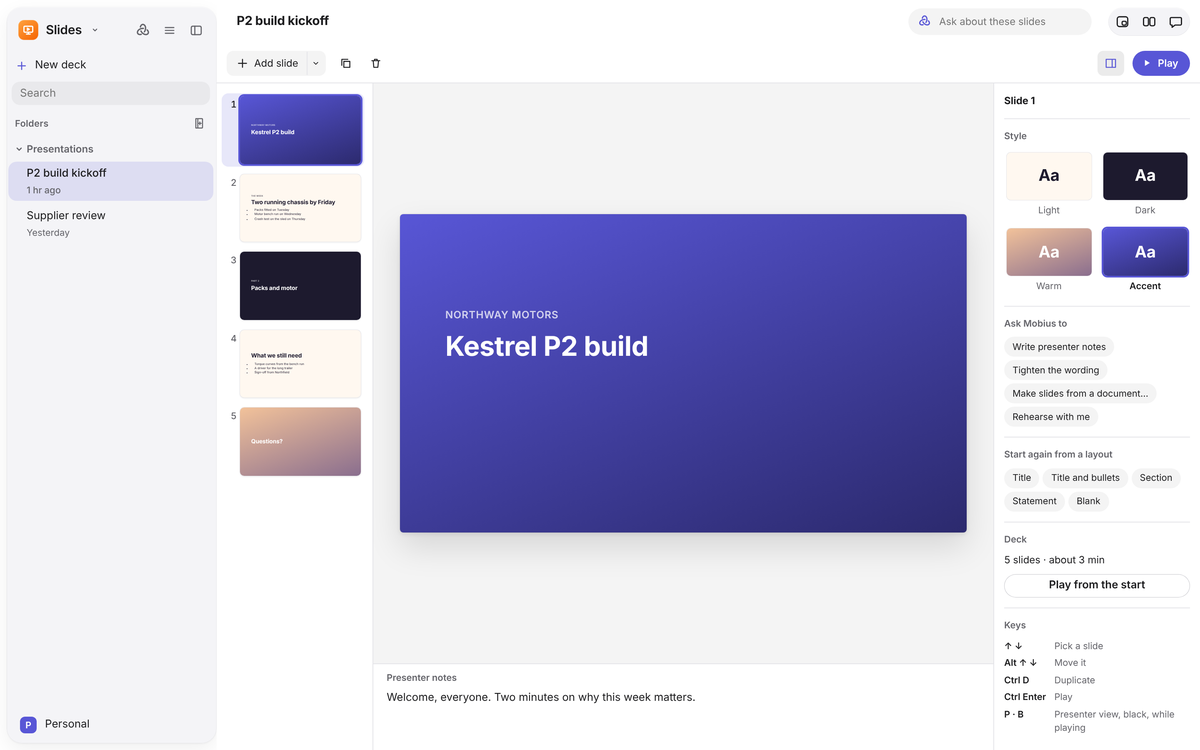
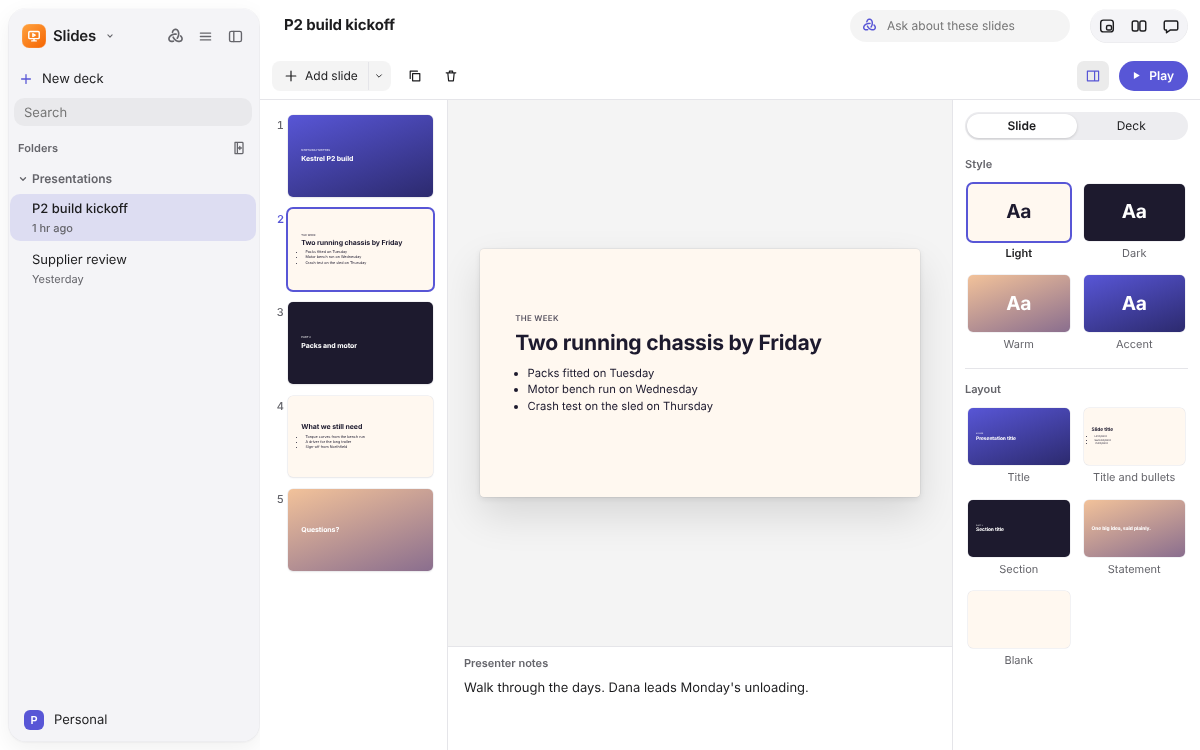
Slides: fix the layout menu, split the inspector into Slide and Deck, keep bullet dots while editing
- The layout menu (the arrow beside Add slide) sits on the shared glass menu surface, so the navigator no longer shows through it.
- The Format inspector has a Slide | Deck segmented control: Slide holds style and layout (drawn as faces), Deck holds length, Play from the start and Ask Mobius. The keys cheat sheet moves into tooltips and the right-click menu.
- Bullets keep their dots while typed: the field sits over a list of the same lines, so wrapped lines stay lined up.
- The picked thumbnail has one accent ring and an accent number instead of a ring on a tinted row.
- Ctrl+Enter plays from the picked slide wherever focus is, unless typing in another field.
- e2e covers the Deck pane; README screenshot and docs updated.

Claude-Session: https://claude.ai/code/session_01VRGwo96C7qXdBUcFe2N5X1

diff --git a/apps/desktop/src/Slides.tsx b/apps/desktop/src/Slides.tsx
@@ -28,6 +28,9 @@ const TOOLS: { id: SlidesTool; label: string }[] = [
 ];
 const STYLE_NAMES: Record<SlideStyle, string> = { light: 'Light', dark: 'Dark', warm: 'Warm', accent: 'Accent' };
 const FORMAT_KEY = 'mobius.slides.format';
+const PANE_KEY = 'mobius.slides.pane';
+type Pane = 'slide' | 'deck';
+const PANES: { id: Pane; name: string }[] = [{ id: 'slide', name: 'Slide' }, { id: 'deck', name: 'Deck' }];
 
 const Icon = ({ d }: { d: string }) => <svg viewBox="0 0 20 20" aria-hidden="true"><path d={d} /></svg>;
 const ICON = {
@@ -135,7 +138,7 @@ function LayoutMenu({ anchor, onPick, onClose }: { anchor: DOMRect; onPick: (l: 
   return createPortal(
     <>
       <div className="slides-scrim" onMouseDown={onClose} />
-      <div className="slides-menu slides-layouts" role="menu" aria-label="Slide layouts" style={{ top: anchor.bottom + 6, left: anchor.left }}
+      <div className="slides-menu slides-layouts glass" role="menu" aria-label="Slide layouts" style={{ top: anchor.bottom + 6, left: anchor.left }}
         onKeyDown={(e) => {
           if (e.key === 'Escape') { onClose(); return; }
           if (e.key !== 'ArrowDown' && e.key !== 'ArrowUp') return;
@@ -171,6 +174,8 @@ export function SlidesEditor({ slides: deck, review, onTool, busy = false }: { s
   const [dragFrom, setDragFrom] = useState<number | null>(null);
   const [dropAt, setDropAt] = useState<number | null>(null);
   const [formatOpen, setFormatOpen] = useState(() => { try { return localStorage.getItem(FORMAT_KEY) !== '0'; } catch { return true; } });
+  const [pane, setPane] = useState<Pane>(() => { try { return localStorage.getItem(PANE_KEY) === 'deck' ? 'deck' : 'slide'; } catch { return 'slide'; } });
+  useEffect(() => { try { localStorage.setItem(PANE_KEY, pane); } catch { /* the choice is only for this session */ } }, [pane]);
   const saved = slides[Math.min(at, slides.length - 1)]!;
   // The slide being typed in, as typed: an empty new bullet line stays until the person leaves the slide.
   // It belongs to one slide of one deck: once another slide is shown, it no longer stands in for that one.
@@ -283,9 +288,23 @@ export function SlidesEditor({ slides: deck, review, onTool, busy = false }: { s
     else if (mod && k.toLowerCase() === 'd') { e.preventDefault(); duplicate(); focusThumb(at + 1); }
     else if (k === 'Enter' && !mod) { e.preventDefault(); titleRef.current?.focus(); }
   };
+  // Ctrl+Enter plays from the picked slide wherever focus is, unless it is typing somewhere else (the composer sends with it).
+  const atRef = useRef(at); atRef.current = at;
+  const pageRef = useRef<HTMLElement>(null);
+  const playingRef = useRef(false); playingRef.current = playing !== null;
+  useEffect(() => {
+    const key = (e: KeyboardEvent) => {
+      if (!(e.ctrlKey || e.metaKey) || e.key !== 'Enter' || e.defaultPrevented || playingRef.current) return;
+      const inPage = e.target instanceof Node && !!pageRef.current?.contains(e.target);
+      if (!inPage && (typing(e.target) || document.querySelector('[role="dialog"][aria-modal="true"]'))) return;
+      e.preventDefault();
+      setPlaying(atRef.current);
+    };
+    window.addEventListener('keydown', key);
+    return () => window.removeEventListener('keydown', key);
+  }, []);
   const onPageKey = (e: ReactKeyboardEvent) => {
     const mod = e.ctrlKey || e.metaKey;
-    if (mod && e.key === 'Enter') { e.preventDefault(); setPlaying(at); return; }
     if (typing(e.target)) return;
     if (mod && e.key.toLowerCase() === 'z') { e.preventDefault(); if (e.shiftKey) redo(); else undo(); }
     else if (mod && e.key.toLowerCase() === 'y') { e.preventDefault(); redo(); }
@@ -313,11 +332,11 @@ export function SlidesEditor({ slides: deck, review, onTool, busy = false }: { s
     { action: 'duplicate', keys: 'Ctrl+D', run: () => duplicate(i) },
     { label: 'Move up', keys: 'Alt+↑', disabled: i === 0, run: () => moveTo(i, i - 1), separated: true },
     { label: 'Move down', keys: 'Alt+↓', disabled: i === slides.length - 1, run: () => moveTo(i, i + 2) },
-    { label: 'Play from here', run: () => setPlaying(i) },
+    { label: 'Play from here', keys: 'Ctrl+Enter', run: () => setPlaying(i) },
     { action: 'delete', label: 'Delete slide', keys: 'Delete', danger: true, disabled: slides.length <= 1, run: () => remove(i), separated: true },
   ];
   return (
-    <section className="slides-page" aria-label={`Deck: ${deck.page.title}`} onKeyDown={onPageKey}>
+    <section ref={pageRef} className="slides-page" aria-label={`Deck: ${deck.page.title}`} onKeyDown={onPageKey}>
       {deck.status === 'conflict' && (
         <div className="note-conflict" role="alert">
           <span>This deck was changed somewhere else while you were editing it.</span>
@@ -327,7 +346,7 @@ export function SlidesEditor({ slides: deck, review, onTool, busy = false }: { s
       )}
       <div className="slides-bar" role="toolbar" aria-label="Slides">
         <div className="slides-add">
-          <button type="button" className="slides-tool" aria-label="Add slide" title="Add a slide like this one's layout" onClick={() => insert({ ...blankSlide(), style: current.style })}>
+          <button type="button" className="slides-tool" aria-label="Add slide" title="Add a slide in this style" onClick={() => insert({ ...blankSlide(), style: current.style })}>
             <Icon d={ICON.add} /><span>Add slide</span>
           </button>
           <button type="button" className="slides-tool slides-add-more" aria-label="Choose a layout" aria-haspopup="menu" aria-expanded={layoutsAt !== null} onClick={(e) => setLayoutsAt(e.currentTarget.parentElement!.getBoundingClientRect())}>
@@ -335,10 +354,10 @@ export function SlidesEditor({ slides: deck, review, onTool, busy = false }: { s
           </button>
         </div>
         <button type="button" className="slides-tool icon" aria-label="Duplicate slide" title="Duplicate (Ctrl+D)" onClick={() => duplicate()}><Icon d={ICON.duplicate} /></button>
-        <button type="button" className="slides-tool icon" aria-label="Delete slide" title="Delete slide" disabled={slides.length <= 1} onClick={() => remove()}><Icon d={ICON.trash} /></button>
+        <button type="button" className="slides-tool icon" aria-label="Delete slide" title="Delete slide (Delete)" disabled={slides.length <= 1} onClick={() => remove()}><Icon d={ICON.trash} /></button>
         <span className="spacer" />
         <button type="button" className="slides-tool icon" aria-label="Format" title="Format" aria-pressed={formatOpen} onClick={() => setFormatOpen((o) => !o)}><Icon d={ICON.format} /></button>
-        <button type="button" className="slides-play-btn" title="Play from this slide (Ctrl+Enter)" onClick={() => setPlaying(at)}><Icon d={ICON.play} /><span>Play</span></button>
+        <button type="button" className="slides-play-btn" title="Play from this slide (Ctrl+Enter). While playing: P presenter view, B black, Esc stop" onClick={() => setPlaying(at)}><Icon d={ICON.play} /><span>Play</span></button>
       </div>
       {proposing && (
         <div className="note-review sheet-review" role="status">
@@ -375,7 +394,11 @@ export function SlidesEditor({ slides: deck, review, onTool, busy = false }: { s
               <SlideFace slide={current}>
                 <input className="slide-kicker" aria-label="Kicker" placeholder="Kicker" value={current.kicker} onChange={(e) => change({ kicker: e.target.value }, 'kicker')} />
                 <textarea ref={titleRef} className="slide-title" aria-label="Title" placeholder="Title" rows={1} value={current.title} onChange={(e) => change({ title: e.target.value.replace(/\n/g, ' ') }, 'title')} />
-                <textarea className="slide-bullets-edit" aria-label="Bullets, one a line" placeholder="Bullets, one a line" rows={Math.max(2, current.bullets.length + 1)} value={current.bullets.join('\n')} onChange={(e) => change({ bullets: e.target.value.split('\n') }, 'bullets')} />
+                {/* The field sits over a list of the same lines, so each bullet keeps its dot as it is typed, as on the slide. */}
+                <div className="slide-bullets-field" data-empty={current.bullets.length === 0 || undefined}>
+                  <ul className="slide-bullets" aria-hidden="true">{current.bullets.map((b, i) => <li key={i}><span>{b || '\u200b'}</span></li>)}</ul>
+                  <textarea className="slide-bullets-edit" aria-label="Bullets, one a line" placeholder="Bullets, one a line" rows={1} value={current.bullets.join('\n')} onChange={(e) => change({ bullets: e.target.value === '' ? [] : e.target.value.split('\n') }, 'bullets')} />
+                </div>
                 <textarea className="slide-text-edit" aria-label="Body text" placeholder="Body text" rows={Math.max(1, current.text.split('\n').length)} value={current.text} onChange={(e) => change({ text: e.target.value }, 'text')} />
               </SlideFace>
             </div>
@@ -386,48 +409,53 @@ export function SlidesEditor({ slides: deck, review, onTool, busy = false }: { s
         </main>
         {formatOpen && (
           <aside className="slides-format" aria-label="Format">
-            <div className="slides-format-title">Slide {at + 1}</div>
-            <section className="slides-section">
-              <div className="slides-section-title">Style</div>
-              <div className="slides-swatches" role="radiogroup" aria-label="Slide style">
-                {SLIDE_STYLES.map((s) => (
-                  <button key={s} type="button" role="radio" aria-checked={current.style === s} aria-label={STYLE_NAMES[s]} className="slides-swatch" onClick={() => change({ style: s })}>
-                    <span className="slide-face" data-style={s}><span className="slide-title">Aa</span></span>
-                    <span className="slides-swatch-name">{STYLE_NAMES[s]}</span>
-                  </button>
-                ))}
-              </div>
-            </section>
-            {onTool && (
-              <section className="slides-section" aria-label="Ask Mobius">
-                {/* The one place in the deck to hand Mobius a job; anything else goes in the Ask field above. */}
-                <div className="slides-section-title">Ask Mobius to</div>
-                <div className="slides-layout-list">
-                  {TOOLS.map((t) => <button key={t.id} type="button" className="slides-chip" disabled={busy} onClick={() => onTool(t.id, at)}>{t.label}</button>)}
-                </div>
-              </section>
+            {/* As Keynote's inspector: one segmented control at the top, and only what belongs to that choice below it. */}
+            <div className="segmented slides-panes" role="radiogroup" aria-label="Show">
+              {PANES.map((p) => <button key={p.id} type="button" role="radio" aria-checked={pane === p.id} onClick={() => setPane(p.id)}>{p.name}</button>)}
+            </div>
+            {pane === 'slide' ? (
+              <>
+                <section className="slides-section">
+                  <div className="slides-section-title">Style</div>
+                  <div className="slides-swatches" role="radiogroup" aria-label="Slide style">
+                    {SLIDE_STYLES.map((s) => (
+                      <button key={s} type="button" role="radio" aria-checked={current.style === s} aria-label={STYLE_NAMES[s]} className="slides-swatch" onClick={() => change({ style: s })}>
+                        <span className="slide-face" data-style={s}><span className="slide-title">Aa</span></span>
+                        <span className="slides-swatch-name">{STYLE_NAMES[s]}</span>
+                      </button>
+                    ))}
+                  </div>
+                </section>
+                <section className="slides-section">
+                  <div className="slides-section-title">Layout</div>
+                  <div className="slides-layout-grid">
+                    {LAYOUTS.map((l) => (
+                      <button key={l.id} type="button" className="slides-layout-pick" title={`Start slide ${at + 1} again as ${l.name}`} onClick={() => change(l.make())}>
+                        <span className="slides-layout-face"><SlideFace slide={l.make()} /></span>
+                        <span>{l.name}</span>
+                      </button>
+                    ))}
+                  </div>
+                </section>
+              </>
+            ) : (
+              <>
+                <section className="slides-section">
+                  <div className="slides-section-title">Length</div>
+                  <p className="slides-deck-facts">{slides.length === 1 ? '1 slide' : `${slides.length} slides`} · about {talkMinutes(slides)} min</p>
+                  <button type="button" className="btn" title="Play from slide 1" onClick={() => setPlaying(0)}>Play from the start</button>
+                </section>
+                {onTool && (
+                  <section className="slides-section" aria-label="Ask Mobius">
+                    {/* The one place in the deck to hand Mobius a job; anything else goes in the Ask field above. */}
+                    <div className="slides-section-title">Ask Mobius to</div>
+                    <div className="slides-tool-list">
+                      {TOOLS.map((t) => <button key={t.id} type="button" className="slides-ask" disabled={busy} onClick={() => onTool(t.id, at)}>{t.label}</button>)}
+                    </div>
+                  </section>
+                )}
+              </>
             )}
-            <section className="slides-section">
-              <div className="slides-section-title">Start again from a layout</div>
-              <div className="slides-layout-list">
-                {LAYOUTS.map((l) => <button key={l.id} type="button" className="slides-chip" onClick={() => change(l.make())}>{l.name}</button>)}
-              </div>
-            </section>
-            <section className="slides-section">
-              <div className="slides-section-title">Deck</div>
-              <p className="slides-deck-facts">{slides.length === 1 ? '1 slide' : `${slides.length} slides`} · about {talkMinutes(slides)} min</p>
-              <button type="button" className="btn" onClick={() => setPlaying(0)}>Play from the start</button>
-            </section>
-            <section className="slides-section slides-keys">
-              <div className="slides-section-title">Keys</div>
-              <dl>
-                <dt>↑ ↓</dt><dd>Pick a slide</dd>
-                <dt>Alt ↑ ↓</dt><dd>Move it</dd>
-                <dt>Ctrl D</dt><dd>Duplicate</dd>
-                <dt>Ctrl Enter</dt><dd>Play</dd>
-                <dt>P · B</dt><dd>Presenter view, black, while playing</dd>
-              </dl>
-            </section>
           </aside>
         )}
       </div>

diff --git a/apps/desktop/src/slides.css b/apps/desktop/src/slides.css
@@ -125,3 +125,40 @@
   .slides-page .slides-nav { flex-basis: 132px; }
   .slides-page .slides-format { display: none; }
 }
+
+/* Second pass. The layout menu sits on the shared glass menu surface, three up, each face drawn to scale above its name. */
+.slides-layouts.glass { grid-template-columns: repeat(3, 128px); gap: 4px; padding: 6px; border-radius: 12px; }
+.slides-layouts button { padding: 6px; gap: 6px; border-radius: 8px; color: var(--ink); }
+.slides-layouts button:hover:not(:disabled), .slides-layouts button:focus-visible { background: color-mix(in srgb, var(--accent) 14%, transparent); color: var(--ink); }
+.slides-layouts button:focus-visible .slide-face { box-shadow: 0 0 0 2px var(--accent); }
+.slides-layout-face { display: block; width: 100%; }
+
+/* The inspector: a segmented Slide | Deck control, then only what that choice holds. */
+.slides-page .slides-format { gap: 0; padding: 12px 12px 16px; }
+.slides-page .slides-panes { display: flex; align-self: stretch; margin-bottom: 4px; border-radius: var(--radius-pill); }
+.slides-page .slides-panes button { flex: 1; height: 24px; padding: 0 10px; border-radius: var(--radius-pill); font-size: var(--fs-sm); color: var(--ink); }
+.slides-page .slides-panes button[aria-checked="true"] { background: var(--bg); box-shadow: 0 1px 3px rgba(0, 0, 0, 0.16); font-weight: 600; }
+.slides-page .slides-format .slides-section { padding: 12px 0; }
+.slides-page .slides-format .slides-section:first-of-type { border-top: 0; }
+.slides-page .slides-layout-grid { display: grid; grid-template-columns: repeat(2, 1fr); gap: 8px; }
+.slides-page .slides-layout-pick { display: flex; flex-direction: column; gap: 4px; padding: 3px; border-radius: 8px; font-size: var(--fs-xs); color: var(--muted); text-align: center; }
+.slides-page .slides-layout-pick .slide-face { text-align: left; border-radius: 5px; box-shadow: 0 0 0 0.5px var(--line); }
+.slides-page .slides-layout-pick:hover .slide-face { box-shadow: 0 0 0 2px color-mix(in srgb, var(--accent) 45%, transparent); }
+.slides-page .slides-layout-pick:hover { color: var(--ink); }
+.slides-page .slides-tool-list { display: flex; flex-direction: column; padding: 2px; border-radius: 10px; background: var(--field); }
+.slides-page .slides-ask { height: 30px; padding: 0 10px; border-radius: 8px; text-align: left; font-size: var(--fs-sm); color: var(--ink); }
+.slides-page .slides-ask:hover:not(:disabled) { background: color-mix(in srgb, var(--ink) 7%, transparent); }
+.slides-page .slides-ask:disabled { opacity: 0.4; }
+.slides-page .slides-format .btn { align-self: stretch; }
+
+/* The picked slide in the navigator: one accent ring, as in Keynote, not a ring on a tinted row. */
+.slides-page .slides-thumb[aria-current="true"] { background: transparent; }
+.slides-page .slides-thumb[aria-current="true"] .slides-num { color: var(--accent); font-weight: 600; }
+
+/* Bullets keep their dots while typed: the list underneath sets the height and draws the dots, the field over it holds
+   the same lines in see-through text width for width, so wrapped lines stay lined up. */
+.slide-face .slide-bullets-field { position: relative; margin-top: 0.4em; font-size: 1.7em; line-height: 1.45; }
+.slide-face .slide-bullets-field .slide-bullets { margin: 0; font-size: 1em; white-space: pre-wrap; overflow-wrap: break-word; pointer-events: none; }
+.slide-face .slide-bullets-field li > span { color: transparent; }
+.slide-face .slide-bullets-field[data-empty] { min-height: 1.45em; }
+.slide-face .slide-bullets-field .slide-bullets-edit { position: absolute; inset: 0; height: 100%; overflow: hidden; font-size: 1em; line-height: inherit; padding: 0 0 0 1.1em; margin: 0; border-radius: 0.2em; white-space: pre-wrap; overflow-wrap: break-word; }

diff --git a/apps/desktop/e2e/slides.spec.ts b/apps/desktop/e2e/slides.spec.ts
@@ -70,6 +70,12 @@ test('a deck is a Markdown file of slides, edited on the slide and played full s
   await expect(shell().getByRole('dialog', { name: /^Playing slide 1 of 3/ })).toContainText('Welcome everyone.');
   await shell().keyboard.press('Escape');
   await expect(shell().getByRole('dialog', { name: /^Playing/ })).toHaveCount(0);
+  // The inspector's Deck pane holds the deck's length and Play from the start.
+  await page().getByRole('radiogroup', { name: 'Show' }).getByRole('radio', { name: 'Deck' }).click();
+  await expect(page().getByRole('complementary', { name: 'Format' })).toContainText('3 slides');
+  await page().getByRole('button', { name: 'Play from the start' }).click();
+  await expect(shell().getByRole('dialog', { name: /^Playing slide 1 of 3/ })).toBeVisible();
+  await shell().keyboard.press('Escape');
 });
 
 test('slides are picked, moved and duplicated from the navigator by key, and Undo takes each step back', async () => {

diff --git a/docs/apps/create.md b/docs/apps/create.md
@@ -6,8 +6,11 @@ Presentations, played as Keynote plays them.
 
 ![The Slides app in Mobius](../readme/apps/slides.png)
 
-- **Slides** down the side, the chosen one at 16:9 to edit, its presenter notes, and a **Format** inspector. New slides
-  start from a menu of layouts.
+- **Slides** down the side, the chosen one at 16:9 to edit, its presenter notes, and a **Format** inspector with two
+  panes: **Slide** (its style and layout) and **Deck** (how long it runs, Play from the start, and Ask Mobius). New
+  slides start from a menu of layouts. Bullets keep their dots while you type them.
+- **Keys:** ↑ ↓ pick a slide, Alt+↑ ↓ moves it, Ctrl+D duplicates, Delete removes, and Ctrl+Enter plays from the
+  picked slide. The same keys show in each slide's right-click menu and the toolbar's tooltips.
 - **Play** shows each slide full screen. Arrows, Space or a click go on (a click on the left third goes back), a
   number and Return jumps, **B** blacks the screen, **P** shows the presenter view with the next slide, notes and the
   clock, and **Esc** stops.

diff --git a/docs/guide/keyboard-shortcuts.md b/docs/guide/keyboard-shortcuts.md
@@ -22,6 +22,6 @@ key until you set one.
 
 Each app also has its own keys, listed in its menus. A few worth knowing:
 
-- **Slides, while playing:** arrows, Space or a click go on; B blacks the screen; P shows the presenter view; Esc stops.
+- **Slides:** Ctrl+Enter plays from the picked slide. While playing: arrows, Space or a click go on; B blacks the screen; P shows the presenter view; Esc stops.
 - **Design:** V, F, R, O and T pick the move, frame, rectangle, oval and text tools.
 - **Code:** Ctrl+/ comments lines, Ctrl+G goes to a line, Tab and Shift+Tab indent.
